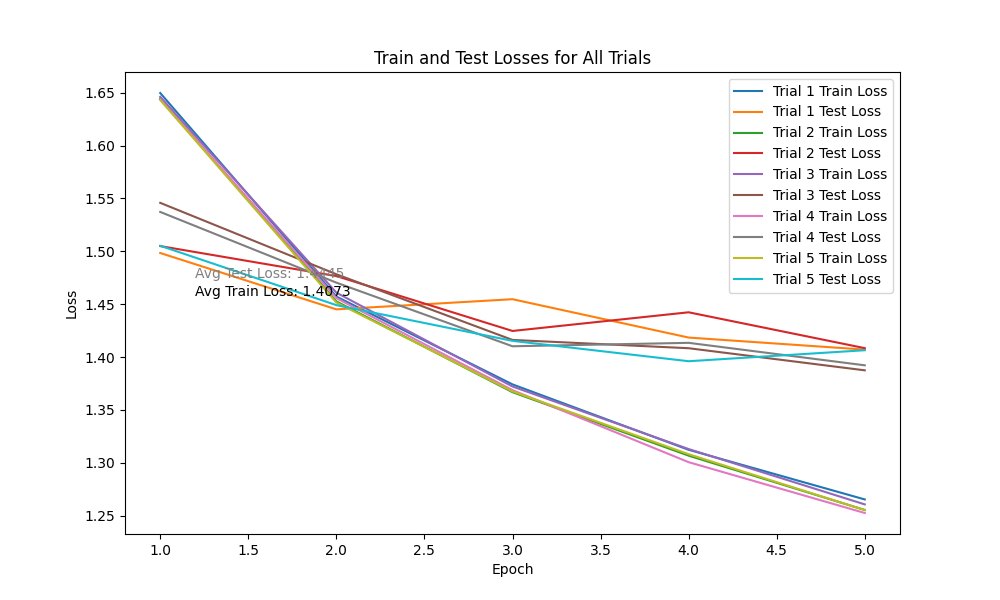
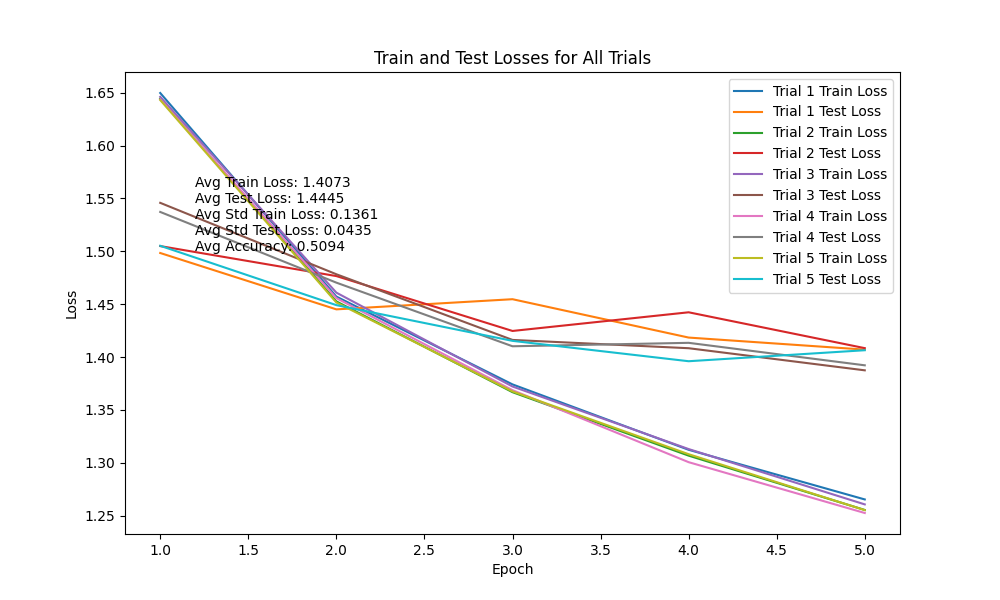
print the avg. metrics in the plot

Changed region(s): [[0.186, 0.3, 0.372, 0.42], [0.186, 0.45, 0.341, 0.51]]

diff --git a/benchmark_2layers.py b/benchmark_2layers.py
@@ -169,20 +169,11 @@ for trial in range(num_trials):
 plt.xlabel('Epoch')
 plt.ylabel('Loss')
 plt.title('Train and Test Losses for All Trials')
-
-# Add legend with average metrics
 plt.legend() 
-
-# Add average metrics annotations with adjusted x-coordinates
-x_coord = 1.2  # Adjust the x-coordinate for better positioning
-plt.text(x_coord, avg_train_loss + 0.05, f'Avg Train Loss: {avg_train_loss:.4f}', color='black')
-plt.text(x_coord, avg_test_loss + 0.03, f'Avg Test Loss: {avg_test_loss:.4f}', color='gray')
-plt.text(x_coord, avg_accuracy - 0.03, f'Avg Accuracy: {avg_accuracy:.4f}', color='green')
-plt.text(x_coord, avg_std_train_loss - 0.05, f'Avg Std Train Loss: {avg_std_train_loss:.4f}', color='blue')
-plt.text(x_coord, avg_std_test_loss - 0.07, f'Avg Std Test Loss: {avg_std_test_loss:.4f}', color='orange')
-plt.tight_layout()  
-
-# Save the plot as an image file with higher resolution
+plt.text(1.2, 1.5, f'Avg Train Loss: {avg_train_loss:.4f}\n'
+         f'Avg Test Loss: {avg_test_loss:.4f}\n'
+         f'Avg Std Train Loss: {avg_std_train_loss:.4f}\n'
+         f'Avg Std Test Loss: {avg_std_test_loss:.4f}\n'
+         f'Avg Accuracy: {avg_accuracy:.4f}')
 plt.savefig('metrics_plot.png', dpi=300)
-
 plt.show()

diff --git a/benchmark_3layers.py b/benchmark_3layers.py
@@ -172,20 +172,11 @@ for trial in range(num_trials):
 plt.xlabel('Epoch')
 plt.ylabel('Loss')
 plt.title('Train and Test Losses for All Trials')
-
-# Add legend with average metrics
 plt.legend() 
-
-# Add average metrics annotations with adjusted x-coordinates
-x_coord = 1.2  # Adjust the x-coordinate for better positioning
-plt.text(x_coord, avg_train_loss + 0.05, f'Avg Train Loss: {avg_train_loss:.4f}', color='black')
-plt.text(x_coord, avg_test_loss + 0.03, f'Avg Test Loss: {avg_test_loss:.4f}', color='gray')
-plt.text(x_coord, avg_accuracy - 0.03, f'Avg Accuracy: {avg_accuracy:.4f}', color='green')
-plt.text(x_coord, avg_std_train_loss - 0.05, f'Avg Std Train Loss: {avg_std_train_loss:.4f}', color='blue')
-plt.text(x_coord, avg_std_test_loss - 0.07, f'Avg Std Test Loss: {avg_std_test_loss:.4f}', color='orange')
-plt.tight_layout()  
-
-# Save the plot as an image file with higher resolution
+plt.text(1.2, 1.5, f'Avg Train Loss: {avg_train_loss:.4f}\n'
+         f'Avg Test Loss: {avg_test_loss:.4f}\n'
+         f'Avg Std Train Loss: {avg_std_train_loss:.4f}\n'
+         f'Avg Std Test Loss: {avg_std_test_loss:.4f}\n'
+         f'Avg Accuracy: {avg_accuracy:.4f}')
 plt.savefig('metrics_plot.png', dpi=300)
-
 plt.show()

diff --git a/perturbation_2layers.py b/perturbation_2layers.py
@@ -198,20 +198,11 @@ for trial in range(num_trials):
 plt.xlabel('Epoch')
 plt.ylabel('Loss')
 plt.title('Train and Test Losses for All Trials')
-
-# Add legend with average metrics
 plt.legend() 
-
-# Add average metrics annotations with adjusted x-coordinates
-x_coord = 1.2  # Adjust the x-coordinate for better positioning
-plt.text(x_coord, avg_train_loss + 0.05, f'Avg Train Loss: {avg_train_loss:.4f}', color='black')
-plt.text(x_coord, avg_test_loss + 0.03, f'Avg Test Loss: {avg_test_loss:.4f}', color='gray')
-plt.text(x_coord, avg_accuracy - 0.03, f'Avg Accuracy: {avg_accuracy:.4f}', color='green')
-plt.text(x_coord, avg_std_train_loss - 0.05, f'Avg Std Train Loss: {avg_std_train_loss:.4f}', color='blue')
-plt.text(x_coord, avg_std_test_loss - 0.07, f'Avg Std Test Loss: {avg_std_test_loss:.4f}', color='orange')
-plt.tight_layout()  
-
-# Save the plot as an image file with higher resolution
+plt.text(1.2, 1.5, f'Avg Train Loss: {avg_train_loss:.4f}\n'
+         f'Avg Test Loss: {avg_test_loss:.4f}\n'
+         f'Avg Std Train Loss: {avg_std_train_loss:.4f}\n'
+         f'Avg Std Test Loss: {avg_std_test_loss:.4f}\n'
+         f'Avg Accuracy: {avg_accuracy:.4f}')
 plt.savefig('metrics_plot.png', dpi=300)
-
 plt.show()

diff --git a/perturbation_3layers.py b/perturbation_3layers.py
@@ -202,20 +202,11 @@ for trial in range(num_trials):
 plt.xlabel('Epoch')
 plt.ylabel('Loss')
 plt.title('Train and Test Losses for All Trials')
-
-# Add legend with average metrics
 plt.legend() 
-
-# Add average metrics annotations with adjusted x-coordinates
-x_coord = 1.2  # Adjust the x-coordinate for better positioning
-plt.text(x_coord, avg_train_loss + 0.05, f'Avg Train Loss: {avg_train_loss:.4f}', color='black')
-plt.text(x_coord, avg_test_loss + 0.03, f'Avg Test Loss: {avg_test_loss:.4f}', color='gray')
-plt.text(x_coord, avg_accuracy - 0.03, f'Avg Accuracy: {avg_accuracy:.4f}', color='green')
-plt.text(x_coord, avg_std_train_loss - 0.05, f'Avg Std Train Loss: {avg_std_train_loss:.4f}', color='blue')
-plt.text(x_coord, avg_std_test_loss - 0.07, f'Avg Std Test Loss: {avg_std_test_loss:.4f}', color='orange')
-plt.tight_layout()  
-
-# Save the plot as an image file with higher resolution
+plt.text(1.2, 1.5, f'Avg Train Loss: {avg_train_loss:.4f}\n'
+         f'Avg Test Loss: {avg_test_loss:.4f}\n'
+         f'Avg Std Train Loss: {avg_std_train_loss:.4f}\n'
+         f'Avg Std Test Loss: {avg_std_test_loss:.4f}\n'
+         f'Avg Accuracy: {avg_accuracy:.4f}')
 plt.savefig('metrics_plot.png', dpi=300)
-
 plt.show()
